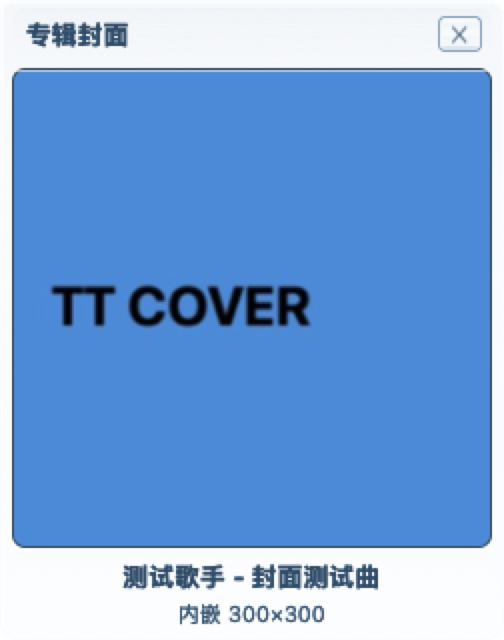
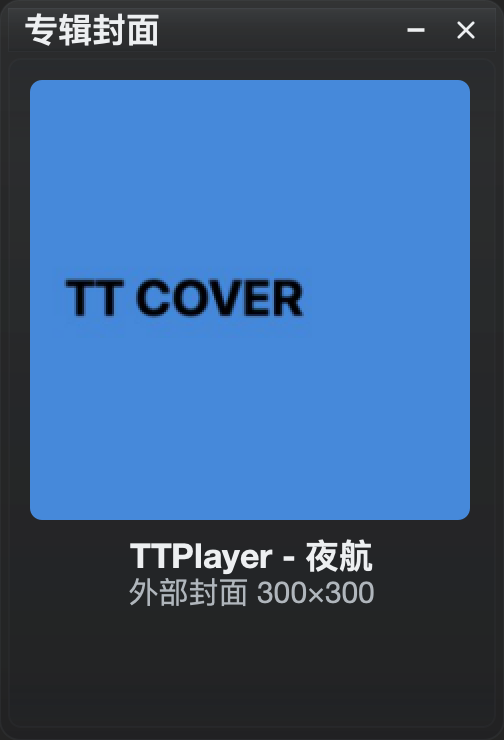
docs: 更新 Qt 播放器使用说明和八张深色界面截图

diff --git a/README.md b/README.md
@@ -1,111 +1,68 @@
 # TTPlayer（千千静听复刻版）
 
-一款基于 Qt 的跨平台桌面音频播放器，向经典 TTPlayer 千千静听的皮肤与交互致敬。设计目标为**低资源占用 · 视觉品质 · 广泛格式支持**。
+TTPlayer 是一款 Qt 桌面音乐播放器，保留了经典千千静听的独立面板操作。可以拖入本地音乐、整张专辑的 CUE 或压缩包，也可以收藏网络电台。主面板、播放列表、均衡器和歌词窗都使用深色皮肤。
 
-## 主要特性
+<img src="docs/screenshots/main.png" alt="Qt 主面板播放《夜航》，显示频谱、左右声道电平、格式与播放控制" width="463">
 
-- **格式覆盖广**：MP3 · AAC/M4A · FLAC · Apple Lossless · OGG（Vorbis/Opus）· APE · TTA · WAV/AIFF/CAF/AU/W64 等 PCM · DSF（DSD64/128/…）· Matroska 音频轨 · CUE 分轨 · 网络电台 · zip/tar/7z/rar 压缩包直听
-- **听得干净**：无缝播放（专辑曲间不插空白）· ReplayGain 响度均衡（按曲目 / 按专辑，带峰值防削波与前置增益）· 10 段均衡器 + 8 组预设
-- **管得住曲库**：媒体库目录自动跟踪（盘上有增删不必手动重扫）· 自建歌单与 m3u 导入导出 · 全局搜索 · 待播队列 · 收藏与两份最近播放历史 · 退出时的现场下次原样回来
-- **电台齐活**：出厂自带一台电台（装上就在列表里，不想要直接删）· 自定义台名 · 分类管理 · 改地址搬家 · ICY「正在播放」· 断线按退避自动重连 · 连接质量统计
-- **桌面应用**：支持 macOS、Windows、Linux；安装包需包含对应平台的 Qt 与输出依赖
-- **资源控制**：有界音频缓冲、限额封面缓存，隐藏时暂停频谱绘制
-- **可调半透明皮肤**：壳层、内嵌槽、按钮、传输带、底部条共用单一透明度参数，菜单里滑块实时调节
-- **快捷键**：`空格` 播放/暂停 · `←` / `→` 上下曲 · `F1`~`F4` 四种播放方式 · `⌘O` 添加 · `⌘F` 搜索 · `⌘D` 收藏 · `⌘1` / `⌘E` / `⌘L` 列表 / 均衡器 / 歌词秀 · `⌥←` / `⌥→` / `⌥0` 歌词校准 · `⌘Q` 退出
-- **系统整合**：菜单栏驻留后台继续播放 · 控制中心 / 锁屏 Now Playing · 输出设备任选 · 睡眠定时器
+## 开始听歌
 
-## 界面
+- **打开音乐**　把音频文件、文件夹、CUE 或歌单拖进主窗，或点打开文件按钮。手动导入的曲目保存在「默认」列表。要持续跟踪磁盘目录，在媒体库中添加文件夹，目录内容变化后会自动重扫。
+- **安排下一首**　在曲目菜单选「下一首播放」或「稍后播放」，再打开「队列」查看和调整顺序。浏览其他歌单或搜索时，当前播放队列会保留。
+- **找回一首歌**　点列表上方的放大镜，输入歌名或歌手名，全局结果会附上来源。按 `Esc` 可回到搜索前的列表和选区。
+- **恢复现场**　重新打开播放器可以接回上次的队列和位置。要在启动后接着播放，请在设置中勾选「启动后自动继续播放」。
+- **后台收听**　点主窗的 `—` 隐藏整组窗口，音乐继续播放，通过托盘或菜单栏图标可恢复窗口。没有系统托盘时可通过最小化窗口恢复。点主窗的 `×` 退出播放器。
 
-沿用已确认的 Qt 深色样式：炭黑面板、浅色文字和橙色高亮。Swift 参考版仅用于对照功能与测试。
-
-![Qt 深色主面板](docs/screenshots/qt-dark-main.png)
-
-| 播放列表 | 均衡器 |
-| :-: | :-: |
-| ![Qt 播放列表](docs/screenshots/qt-dark-playlist.png) | ![Qt 均衡器](docs/screenshots/qt-dark-equalizer.png) |
-
-## 安装
-
-本轮 Qt 修复尚未发布。现有 Release 安装说明与这份工作树的 Qt 验证产物应区分；本轮验证入口与结果见 [修复记录](docs/review-fixes.md)。
-
-### 通过 GitHub Release 安装（推荐）
-
-从 [Releases 页面](https://github.com/myzhan/TTPlayer/releases) 下载最新版本 `TTPlayer-vX.Y.Z-macOS-universal.zip`：
-
-```sh
-unzip TTPlayer-vX.Y.Z-macOS-universal.zip
-mv TTPlayer.app ~/Applications/
-xattr -dr com.apple.quarantine ~/Applications/TTPlayer.app
-open ~/Applications/TTPlayer.app
-```
-
-发布包采用 ad-hoc 签名，未经 Apple 公证。首次启动需通过上述 `xattr` 命令移除隔离属性，或在 Finder 中右键图标选择"打开"。
-
-### 从源码构建
-
-前置条件：macOS 12+、Xcode 15+ 命令行工具、`brew install nasm yasm`。
-
-```sh
-git clone --recurse-submodules https://github.com/myzhan/TTPlayer.git
-cd TTPlayer
-zsh build_app.sh
-open build/TTPlayer.app
-```
-
-`build_app.sh` 会先调用 `scripts/build_ffmpeg.sh` 从 submodule 编译 FFmpeg 静态库（首次约需 5 分钟），随后打包 `.app`。开发流程详见 [`AGENTS.md`](AGENTS.md)。
-
-## 支持格式
-
-| 类别 | 范围 |
+| 播放列表 | 全局搜索 |
 | --- | --- |
-| 有损编码 | MP3（含 MP2/M2A/MPA）· AAC / ADTS（含 HE-AAC）· Vorbis / Opus（`.ogg`）|
-| 无损编码 | WAV / AIFF / CAF / AU / W64 里的 PCM（8/16/24/32-bit、float、μ-law/A-law、IMA ADPCM）· FLAC · ALAC · APE（`.ape/.apl/.mac`）· TTA |
-| Hi-Res / DSD | 24 / 32-bit PCM · DSF（DSD64 / 128 / …，解出后降 8 倍到 PCM 基准率）|
-| 容器 | m4a / mp4 / m4b · mov（拖单文件时试其音轨，目录扫描不收）· mkv / mka / mks / webm · caf · au / snd · w64 |
-| 网络流 | HTTP / HTTPS 直播流（ICY metadata）|
-| 分轨与歌单 | CUE sheet（内嵌或外挂）· m3u / m3u8 |
-| 归档容器 | zip · tar · tar.gz · tar.bz2 · 7z · rar（拖入压缩包直接听，无需先解压）|
-| 标签与封面 | ID3v1 / v2 · Vorbis Comment · MP4 ilst · APEv2 · FLAC PICTURE · M4A 内嵌封面 |
+| ![默认列表中按顺序排列的曲目和时长](docs/screenshots/playlist.png) | ![搜索“夜航”后显示的两条结果及其来源](docs/screenshots/search.png) |
 
-白名单以运行时枚举内置 FFmpeg 解复用器声明的扩展名为准，不在表里的后缀会在导入时给一句拒收原因。同专辑曲目共用一份封面位图；显示小档 112 px，解码上限 256 px，并纳入 8 MiB LRU 缓存。已知限制与逐项实测见 [Releases](https://github.com/myzhan/TTPlayer/releases)。
+## 网络电台
 
-## 系统要求
+点播放列表工具栏的「电台」，粘贴 HTTP 或 HTTPS 直播地址。可以给台站改名、修改地址，也可以在左栏「网络电台」上点右键建立分类。支持 ICY 的台站会显示正在播放的曲名。连接中断后播放器会退避重连，达到重试上限后可手动重试。
 
-- macOS 12 Monterey 或更新版本；Windows 10 或更新版本；具备桌面环境的 Linux
-- 安装包与处理器架构对应。Qt 跨平台版的体积与旧 Swift 版不同，具体以下载包为准
-- 当前截图展示已确认的 Qt 深色样式；验证状态见 [修复记录](docs/review-fixes.md)
+起播时会先积累约 **2 秒**音频，播放中的缓冲最多可容纳 **12 秒**解码音频。若网络中断到缓冲耗尽，会等缓冲补足后再出声。在台站的「属性」中可以查看当前缓冲秒数，以及最近 30 秒和本次收听累计的欠载、重连次数。
 
-## 常见问题
+| 网络电台 | 待播队列 |
+| --- | --- |
+| ![网络电台页显示两个直播台和自建分类](docs/screenshots/radio.png) | ![待播队列显示当前曲目及接下来播放的四首歌](docs/screenshots/queue.png) |
 
-**首次启动提示"已损坏，无法打开"**
-ad-hoc 签名的 app 未经 Apple 公证，Gatekeeper 会阻止打开。执行 `xattr -dr com.apple.quarantine /path/to/TTPlayer.app`，或在 Finder 中右键图标选择"打开"。
+## 音效、歌词与封面
 
-**如何终止进程**
-`⌘Q`；或点击菜单栏图标选择"退出"；或点击主面板 `×`。本项目的 `×` 语义为终止进程（不同于 macOS 常规窗口关闭），后台驻留请使用 `—`。
+无缝播放用于连续收听整张专辑。ReplayGain 可按曲目或专辑调整响度，并提供前置增益与峰值防削波。十段均衡器可以独立调整或使用预设。歌词窗读取 LRC，支持按曲校准时间。点击主面板的小封面可查看专辑大图。
 
-**皮肤未呈现透明效果**
-确认菜单中"半透明玻璃"已勾选，并将下方"透明度"滑块向左调整。若桌面壁纸为纯黑或纯色低对比图像，视觉差异不明显。
+| 十段均衡器 | 同步歌词 | 专辑封面 |
+| --- | --- | --- |
+| ![十段均衡器与前置增益](docs/screenshots/equalizer.png) | ![当前歌词行以橙色高亮](docs/screenshots/lyric.png) | ![专辑封面窗显示外部封面和原始尺寸](docs/screenshots/cover.png) |
 
-**F1~F4 按了没反应**
-Mac 键盘默认把功能键分配给亮度 / 播放控制。请在系统设置 → 键盘中启用"将 F1、F2 等键用作标准功能键"，或按住 `Fn` 再按；菜单里也有同样的四种播放方式。
+## 常用设置
 
-**某些文件拖进来没反应**
-播放器按后缀白名单放行。本 build 的 FFmpeg 未编入解码器的（`.tak`、Musepack、Shorten、RealAudio、MIDI / Tracker 模块）会给出具体原因；可以通过全局搜索的格式筛选查看已导入的格式。
+从主面板菜单打开「设置」。在「输出设备」中可以跟随系统默认设备，或指定耳机、声卡，并查看当前实际输出。「播放」中的睡眠定时器可以倒计时停止，也可以播完当前曲目再停。「外观」可调各面板共用的玻璃透明度。
 
-**DSD 文件无声或异常**
-`.dsf` 由 FFmpeg 解出 DSD 流后再降采样 8 倍到 PCM 基准率（DSD64 → 44.1 kHz、DSD128 → 88.2 kHz）。若音频设备不支持高采样率，请把输出设备切到 44.1 kHz 或 48 kHz 那一档，或在菜单 → 输出设备里固定到别的设备。
+## 文件格式
 
-**媒体库和 `[默认]` 列表有什么区别？**
-「媒体库」是目录扫描出来的只读视图：盘上有什么就是什么，不能删行也不能清空，想少收一片目录去菜单 → 媒体库里移除。`[默认]` 才是你自己攒的播放列表，导入、拖入、排序、清空都作用于它。
+| 类别 | 格式 |
+| --- | --- |
+| 有损音频 | MP3、AAC、Vorbis、Opus、WMA |
+| 无损与高解析音频 | FLAC、Apple Lossless（ALAC）、WavPack、TTA、APE、PCM WAV、AIFF，以及解码为 PCM 输出的 DSF / DFF |
+| 整轨与歌单 | CUE 分轨、M3U / M3U8 歌单导入与导出 |
+| 归档直听 | ZIP、TAR（含 gzip / bzip2）、7z。直接从归档读取音频，具体格式取决于所用 libarchive |
 
-**响度均衡为什么默认关闭？**
-它会把不同母带的相对响度拉平，属于"改掉原曲听感"的处理，因此不像无缝播放那样默认开启。需要时按曲目或按专辑打开，没有 ReplayGain 标签的曲子仍保持原音量。
+## 快捷键
 
-## 许可
+下表中的组合键在 macOS 使用 `⌘`，Windows 和 Linux 使用 `Ctrl`。Mac 键盘如果将功能键用于亮度或系统音量，可配合 `Fn` 使用。
 
-[MIT](LICENSE)。本项目代码按 MIT 开源；FFmpeg 组件遵循其自身 LGPL/GPL 许可，从源码静态编译链入仅供个人使用，若需再分发请自行核对 FFmpeg 授权条款。
+| 操作 | 快捷键 |
+| --- | --- |
+| 播放 / 暂停，静音 | `空格`，`M` |
+| 上一首 / 下一首 | `←` / `→` |
+| 顺序、单曲循环、列表循环、随机 | `F1`、`F2`、`F3`、`F4` |
+| 打开文件 / 添加文件夹 | `⌘/Ctrl + O` / `⌘/Ctrl + Shift + O` |
+| 全局搜索 / 收藏当前曲目 | `⌘/Ctrl + F` / `⌘/Ctrl + D` |
+| 显隐播放列表 / 均衡器 / 歌词 | `⌘/Ctrl + 1` / `⌘/Ctrl + E` / `⌘/Ctrl + L` |
+| 歌词偏移 −0.5 秒 / +0.5 秒，归零 | `Alt/⌥ + ←` / `Alt/⌥ + →`，`Alt/⌥ + 0` |
 
-## 相关
+## 获取与反馈
 
-- 开发约定与贡献指南（环境 / 命令 / 分层 / 常见坑 / 验证）：[`AGENTS.md`](AGENTS.md)；每版实测数据与安装包见 [Releases](https://github.com/myzhan/TTPlayer/releases)
-- Issue 与建议：<https://github.com/myzhan/TTPlayer/issues>
+本页截图来自 macOS 上实际运行的 Qt 版。Qt 版面向 macOS、Windows 和 Linux，macOS 部署目标为 12.0。此轮更新尚未发布安装包。下载已有版本时，请核对发布说明中的实现、平台和处理器架构。[历史发布](https://github.com/myzhan/TTPlayer/releases) · [Qt 源码构建与运行](AGENTS.md#构建) · [反馈问题](https://github.com/myzhan/TTPlayer/issues)
+
+项目代码使用 MIT 许可证，FFmpeg 等第三方组件遵循各自的许可证。[项目许可证](LICENSE)

diff --git a/docs/review-fixes.md b/docs/review-fixes.md
@@ -2,7 +2,7 @@
 
 对应 [第二轮 review](../review.md) 的 B01～B27，以及其关联的第一轮问题。下表记录 Qt 实现和对应的回归入口。
 
-用户已明确要求保留既有深色 Qt 界面，**本轮不修改任何样式**。B27 的蓝灰复刻建议作废；Swift 只用于功能与测试对照。原 Qt 配色、字体、统一 alpha 和紧凑布局已恢复，基线见 [approved-dark-style.json](review-evidence/approved-dark-style.json) 与 `screenshots/qt-dark-*.png`。
+用户已明确要求保留既有深色 Qt 界面，**本轮不修改任何样式**。B27 的蓝灰复刻建议作废；Swift 只用于功能与测试对照。原 Qt 配色、字体、统一 alpha 和紧凑布局已恢复，基线见 [approved-dark-style.json](review-evidence/approved-dark-style.json) 及获确认时的[主面板](screenshots/qt-dark-main.png)、[播放列表](screenshots/qt-dark-playlist.png)和[均衡器](screenshots/qt-dark-equalizer.png)。当前打包版的八张截图与拍摄条件见[界面截图说明](screenshots/README.md)。
 
 ## 实现与对应回归
 
@@ -44,13 +44,15 @@
 
 ## 电台缓冲与前台播放 CPU
 
-电台按输出采样率保留最多 12 秒 PCM，起播和耗尽后先积累 2 秒。不可定位的直播流切换采样率时直接配置重采样器。CoreAudio 回归覆盖了 44.1 kHz 电台在 48 kHz 设备上播放。
+网络层最多缓存 4 MiB 压缩数据，输出层按设备采样率保留最多 12 秒 PCM。起播和耗尽后先积累 2 秒；遇到流结束则直接播完现存尾段。不可定位的直播流切换采样率时直接配置重采样器。CoreAudio 回归覆盖了 44.1 kHz 电台在 48 kHz 设备上播放。
 
 频谱和电平表共用刷新时钟，静态窗壳复用底图。相同测试流、窗口全程可见、实际每秒绘制约 25 帧时，30 秒平均 CPU 从 16.6% 降至 10.1%。更新后的 macOS Debug、Release、ASan+UBSan 和打包版全量自检各 **862 PASS / 0 FAIL / 0 SKIP**。
 
+复测 CPU 时应使用同一打包构型、直播输入、输出设备和窗口可见状态，等播放稳定后记录采样时长、平均 CPU 及实际绘制帧率。隐藏窗口会停用频谱分析与绘制，起播阶段还包含开流与缓冲开销；单次活动监视器读数不宜作为前后台或不同版本的平均值。
+
 ## 验证口径与未完成边界
 
-修复前 Qt 为 221 PASS。第二轮审查修复后，Debug、Release、ASan+UBSan 及部署后 app 全量各 **852 PASS / 0 FAIL / 0 SKIP**，Debug/Release CTest 各 **41/41**。日志分别位于 `/tmp/tt-final-debug`、`/tmp/tt-final-release`、`/tmp/tt-final-asan-repeat`、`/tmp/tt-final-packaged`，各目录含 `run.json` 与 `selftest.log`。产品双构型编译 0 warning / 0 error，签名严格校验、Info.plist 和 diff 空白检查通过。
+修复前 Qt 为 221 PASS。第二轮审查修复后，Debug、Release、ASan+UBSan 及部署后 app 全量各 **852 PASS / 0 FAIL / 0 SKIP**，Debug/Release CTest 各 **41/41**。该阶段的本机临时报告目录为 `/tmp/tt-final-debug`、`/tmp/tt-final-release`、`/tmp/tt-final-asan-repeat`、`/tmp/tt-final-packaged`，各目录含 `run.json` 与 `selftest.log`。产品双构型编译 0 warning / 0 error，签名严格校验、Info.plist 和 diff 空白检查通过。
 
[1 lines of base64/hex data omitted]
 

diff --git a/docs/screenshots/README.md b/docs/screenshots/README.md
@@ -1,0 +1,40 @@
+# Qt 界面截图
+
+以下八张 PNG 于 2026-11-20 在 macOS arm64 上从本地打包版 `TTPlayer 1.1.4 Qt 6.8.3 arm64` 实际运行的窗口截取。使用默认深色皮肤、Qt offscreen 和 2 倍像素比例。窗口保留应用的玻璃透明度，导出文档配图时统一叠在深灰底（`#242424`）上，便于在白底和深底页面阅读。桌面壁纸、系统合成和置顶效果需要在桌面上另验。
+
+| 窗口 | 截图时的状态 |
+| --- | --- |
+| [主面板](main.png) | 正在播放示例 FLAC《夜航》，可见封面、频谱和左右电平 |
+| [播放列表](playlist.png) | 默认列表包含六首示例曲目和内置电台，当前曲目高亮 |
+| [全局搜索](search.png) | 在真实搜索框输入“夜航”，结果为《夜航》和《夜航变奏》，显示匹配来源 |
+| [网络电台](radio.png) | 选中「网络电台」页，显示两个示例直播台和自建分类；截图时未连外网电台 |
+| [待播队列](queue.png) | 当前播放项之外有四个待播项，含下一首播放和稍后播放 |
+| [均衡器](equalizer.png) | 十个频段均在 0 dB，左侧显示音量与前置增益 |
+| [歌词](lyric.png) | 本地 FLAC 配同名 LRC，第一行随播放时间高亮 |
+| [封面](cover.png) | 显示曲目目录里的 300 × 300 示范封面和曲目信息 |
+
+## 更新配图
+
+先准备当前 Qt 打包版、临时目录及示例媒体。用本地生成的音频、自己可分发的封面和歌词，避免把个人曲库、真实电台地址或绝对路径带入截图。以下示例从仓库根目录运行，生成一张可以检查的主面板截图：
+
+```sh
+shot_dir=$(mktemp -d)
+ffmpeg -v error -f lavfi -i 'sine=frequency=440:duration=12' \
+  -metadata title=夜航 -metadata artist=TTPlayer "$shot_dir/夜航.flac"
+env QT_QPA_PLATFORM=offscreen QT_SCALE_FACTOR=2 SDL_AUDIODRIVER=dummy \
+  TTPLAYER_SELFTEST=1 TTPLAYER_SILENT_OUTPUT=1 \
+  TTPLAYER_QT_STATE="$shot_dir/state.json" TTPLAYER_QT_SHOT="$shot_dir/main.png" \
+  python3 scripts/selftest_guard.py dist/ttplayer.app/Contents/MacOS/ttplayer "$shot_dir/夜航.flac"
+```
+
+文档配图使用 ImageMagick 将透明窗口合成到统一背景。对刚才的主面板可运行：
+
+```sh
+magick "$shot_dir/main.png" -background '#242424' -alpha remove -alpha off -strip "PNG24:$shot_dir/main-doc.png"
+```
+
+单独抓取面板时，把命令中的变量名 `TTPLAYER_QT_SHOT` 改为 `TTPLAYER_QT_SHOT_PLAYLIST`、`TTPLAYER_QT_SHOT_EQ`、`TTPLAYER_QT_SHOT_LYRIC`、`TTPLAYER_QT_SHOT_COVER` 或 `TTPLAYER_QT_SHOT_QUEUE`，并指定对应的输出文件名。列表传入多首带标签的曲目，歌词和封面传入带同名 LRC 或封面的音频；队列探针自带示例条目。Windows 和 Linux 可将示例中的可执行文件换成相应平台的 Qt 产物。
+
+电台和搜索需要先操作播放列表。为它们单独建临时存档，在隔离实例中添加示例台并切换到「网络电台」，或导入示例曲目、打开放大镜、输入查询并等到命中数出现，再截取列表窗口。截图时检查页面高亮、行内容和搜索词，逐张查看原始 PNG 后再替换同名文件。真实用户的 `state.json` 与 `resume.json` 由守卫核对，正在播放的实例可能自行更新进度，遇到变化须查明来源并重新分批校验。
+
+获确认时的三张 Qt 深色基线图保留原文件，供后续外观比对。[主面板基线](qt-dark-main.png) · [播放列表基线](qt-dark-playlist.png) · [均衡器基线](qt-dark-equalizer.png) · [配色记录](../review-evidence/approved-dark-style.json)

diff --git a/docs/qt-selftest-mapping.md b/docs/qt-selftest-mapping.md
@@ -33,7 +33,7 @@
 | format | FORMAT | MP3/AAC/FLAC/ALAC/Vorbis/Opus、PCM/ADPCM、WMA/TTA/WavPack、DSF/DFF、可选真实 APE | 独立 FFmpeg CLI 编码及 Python DSD fixture；真实解码帧数 |
 | decoder | DECODER、FORMAT、REVIEW | 采样率/声道、精确重复 seek、帧数、取消、坏文件拒收 | 真实 FFmpeg；DSD/TTA/APE 在 FORMAT，不能说 DECODER 单套全包 |
 | import | IMPORT、SL、IDENTITY、WATCH | 递归、去重、CUE/归档/M3U 统一入口、EXTINF、拒收原因 | 临时文件；扫描与手动导入均在后台 |
-| radio | RADIO、RADIOCAT、RADIOLIVE、SYSTEM | 种台/黑名单、分类、ICY 拆包、异步取消、2/4/8/8、重试上限/手动重试、403 终止、质量窗口 | 本地 HTTP 真实剧本；RADIO 本身只是种台，不能冒充重连 |
+| radio | RADIO、RADIOCAT、RADIOLIVE、REVIEW、SYSTEM | 种台/黑名单、分类、ICY 拆包、异步取消、2/4/8/8、重试上限/手动重试、403 终止、质量窗口、PCM 起播与补缓冲、短流收尾 | 本地 HTTP 真实剧本；RADIO 本身只是种台，不能冒充重连 |
 | archive | ARCHIVE、IDENTITY、LISTS | zip/tar/gz/bz2/可选 7z、加密拒绝、seek PCM、中文/空格/特殊字符 URL、M3U 往返 | 流式 libarchive，不落地解压；RAR/RAR5 未现场生成 |
 | lists | LISTS、SL、GROUPS、SEARCH | 歌单名字、重复/重排/独立引用、M3U、删除/收藏分流 | 持久化与真实面板删除路径 |
 | search | SEARCH、UI、SL | 跨页/格式/来源、退出选区、排序持久化、搜索删除、保留媒体库 | 真窗口入口；排序与匹配均按身份 |
@@ -56,11 +56,12 @@ GAPLESS 直接检查跨段回调没有中间零窗，再走公开 controller 与
 GAIN 先测 Off 基准 RMS，重测基准证明复用成立，再比较实际 Track/峰值限制输出。
 SCENE 恢复 ramp 第 1 秒并真实开声采样，区别于从头恢复；最终物理输出仍静音。
 
-## 不得宣称已完成的验收
+REVIEW 在 48 kHz 下直接向输出环送入已知 PCM，验证起播前保留首秒、实际短读后进入补缓冲、恢复出声和不足两秒的 EOF 尾段。RADIOLIVE 另起本地 HTTP 服务测试网络行为。UI 连续 30 帧比较实际发生变化的像素与重绘区域，频谱衰减结束后验证无需再重绘。
+
+## 验证结果与平台边界
 
 这些入口已补齐，但尚不能把“所有 Swift 1411 个断言逐一等价移植”写成结论。
 Windows/Linux 原生运行、设备热插拔/系统休眠、系统媒体面板、桌面透明合成，以及
 压缩格式的整专辑衔接矩阵仍须后续平台与专项取证。
-本机最终 Debug、Release、ASan+UBSan 和打包 app 全量各为 862 PASS / 0 FAIL / 0 SKIP；
-CTest 双构型各 41/41。启动恢复另覆盖异步让出事件循环、恢复期间不存半库和过期代际拒交付。
+2026-11-20 的 macOS arm64 电台与绘制修复后，Debug、Release、ASan+UBSan 和打包 app 全量各为 **862 PASS / 0 FAIL / 0 SKIP**。此前审查修复阶段的 CTest 在 Debug、Release 各通过 **41/41**。启动恢复另覆盖异步让出事件循环、恢复期间不存半库和过期代际拒交付。
 完整结果及 ASan 首轮异常记录见 [review-fixes.md](review-fixes.md)；原审查保留在 [review.md](../review.md)。

diff --git a/AGENTS.md b/AGENTS.md
@@ -41,7 +41,19 @@ Linux 依赖 Qt6 Widgets/Network/Core5Compat/Concurrent/DBus、SDL2、libarchive
 运行 `bash scripts/build_ffmpeg_linux.sh`。Windows 使用 MSVC 2022、Qt msvc2022_64、
 vcpkg x64-windows 的 SDL2/libarchive/zlib；初始化 MSVC developer 环境后，
 在继承该环境的 MSYS shell 中运行 `scripts/build_ffmpeg_msvc.sh`，再由 CMake 构建。
-不要混链 MSVC 与 MinGW 的 C++ 库。具体矩阵见 `.github/workflows/qt-ci.yml`。
+不要混链 MSVC 与 MinGW 的 C++ 库。具体的依赖版本、生成器和安装步骤见 [Qt CI 配置](.github/workflows/qt-ci.yml)。
+
+### 运行当前 Qt 版
+
+macOS 和 Linux 的普通单构型构建生成 `build/ttplayer` 和 `build-release/ttplayer`。Windows 使用 Visual Studio 多构型生成器时，可执行文件位于构建目录的 `Debug` 或 `Release` 子目录。可先运行 `--version` 确认输出包含 Qt 版本和架构。macOS 打包与启动使用：
+
+```sh
+python3 scripts/package.py
+dist/ttplayer.app/Contents/MacOS/ttplayer --version
+open dist/ttplayer.app
+```
+
+打包目录是 `dist/`，Swift 的 `legacy/build_app.sh` 用于历史参考实现。更新 README 配图前，请按[界面截图说明](docs/screenshots/README.md)隔离存档、准备示例曲库并核对截图内容。
 
 ## 验证入口
 

diff --git a/review.md b/review.md
@@ -4,7 +4,7 @@
 >
 > 本文保留为修复前的审查快照。修复实现、验证结果和未关闭的验收边界见 [docs/review-fixes.md](docs/review-fixes.md)，测试对应关系见 [docs/qt-selftest-mapping.md](docs/qt-selftest-mapping.md)。不要把下文旧复现结果当作当前版本结果。
 
-日期：2026-11-20。参考基线：`c66a60a` 的 Swift 行为，源码现位于 `legacy/Sources/TTPlayer/`；被审对象为当前未提交的 Qt working tree。第一轮记录保存在 [docs/review-2026-11-19.md](docs/review-2026-11-19.md)。
+日期：2026-11-20。参考基线：`c66a60a` 的 Swift 行为，源码现位于 `legacy/Sources/TTPlayer/`；被审对象为 2026-11-20 审查时尚未提交的 Qt 工作树。文中外观对照使用 [Swift 基线截图](https://github.com/myzhan/TTPlayer/tree/c66a60a42e7e809167419fe493d90a2d91d87f25/docs/screenshots)。第一轮记录保存在 [docs/review-2026-11-19.md](docs/review-2026-11-19.md)。
 
 **结论：重写补齐了不少结构和界面，但仍不满足 1:1 功能与稳定性交付。现有自检全绿，仍能复现拖拽重排崩溃和 seek 接受旧位置 PCM。应先修这些正确性问题，再补无缝、电台、媒体库和系统整合。**
 

diff --git a/docs/review-2026-11-19.md b/docs/review-2026-11-19.md
@@ -1,5 +1,7 @@
 # Swift → Qt 复刻差异审查与接手清单（第一轮，历史记录）
 
+> 本文保留 2026-11-19 当日的实现和结论。文中配图对照指向 [Swift 基线截图](https://github.com/myzhan/TTPlayer/tree/c66a60a42e7e809167419fe493d90a2d91d87f25/docs/screenshots)。后续采用 Qt 深色样式；当前实现与复测结果见[修复记录](review-fixes.md)。
+
 审查日期：2026-11-19。基线：`c66a60a` 的 Swift 原版，加当前 working tree 的 Qt 实现（`src/`、`CMakeLists.txt`、跨平台 FFmpeg 脚本尚未入库）。目标是保留原版用户可观察的功能、交互和数据，而不只是做出能播放的相似窗口。
 
 **结论：当前 Qt 版具备基础播放器骨架，但尚不能称为 1:1 复刻。最需要先修的是列表数据边界、现场恢复、元数据链路、切页错误和音频线程设计；继续堆窗口不能解决这些问题。**

diff --git a/legacy/AGENTS.md b/legacy/AGENTS.md
@@ -1,6 +1,6 @@
 # AGENTS.md — Agent / 贡献者开发约定
 
-面向在 TTPlayer 仓库里协作的 AI Agent 与人类贡献者。**动手之前先读这一页**，能避开本仓已经踩过的坑。
+本文保留 Swift 版的开发与验收约定。下文的目录、命令、截图与计数对应迁移前的仓库快照。当前产品使用 Qt，构建与自检从[仓库根目录的开发约定](../AGENTS.md)进入；两版的行为对应见[自检映射](../docs/qt-selftest-mapping.md)。
 
 ## TL;DR
 
